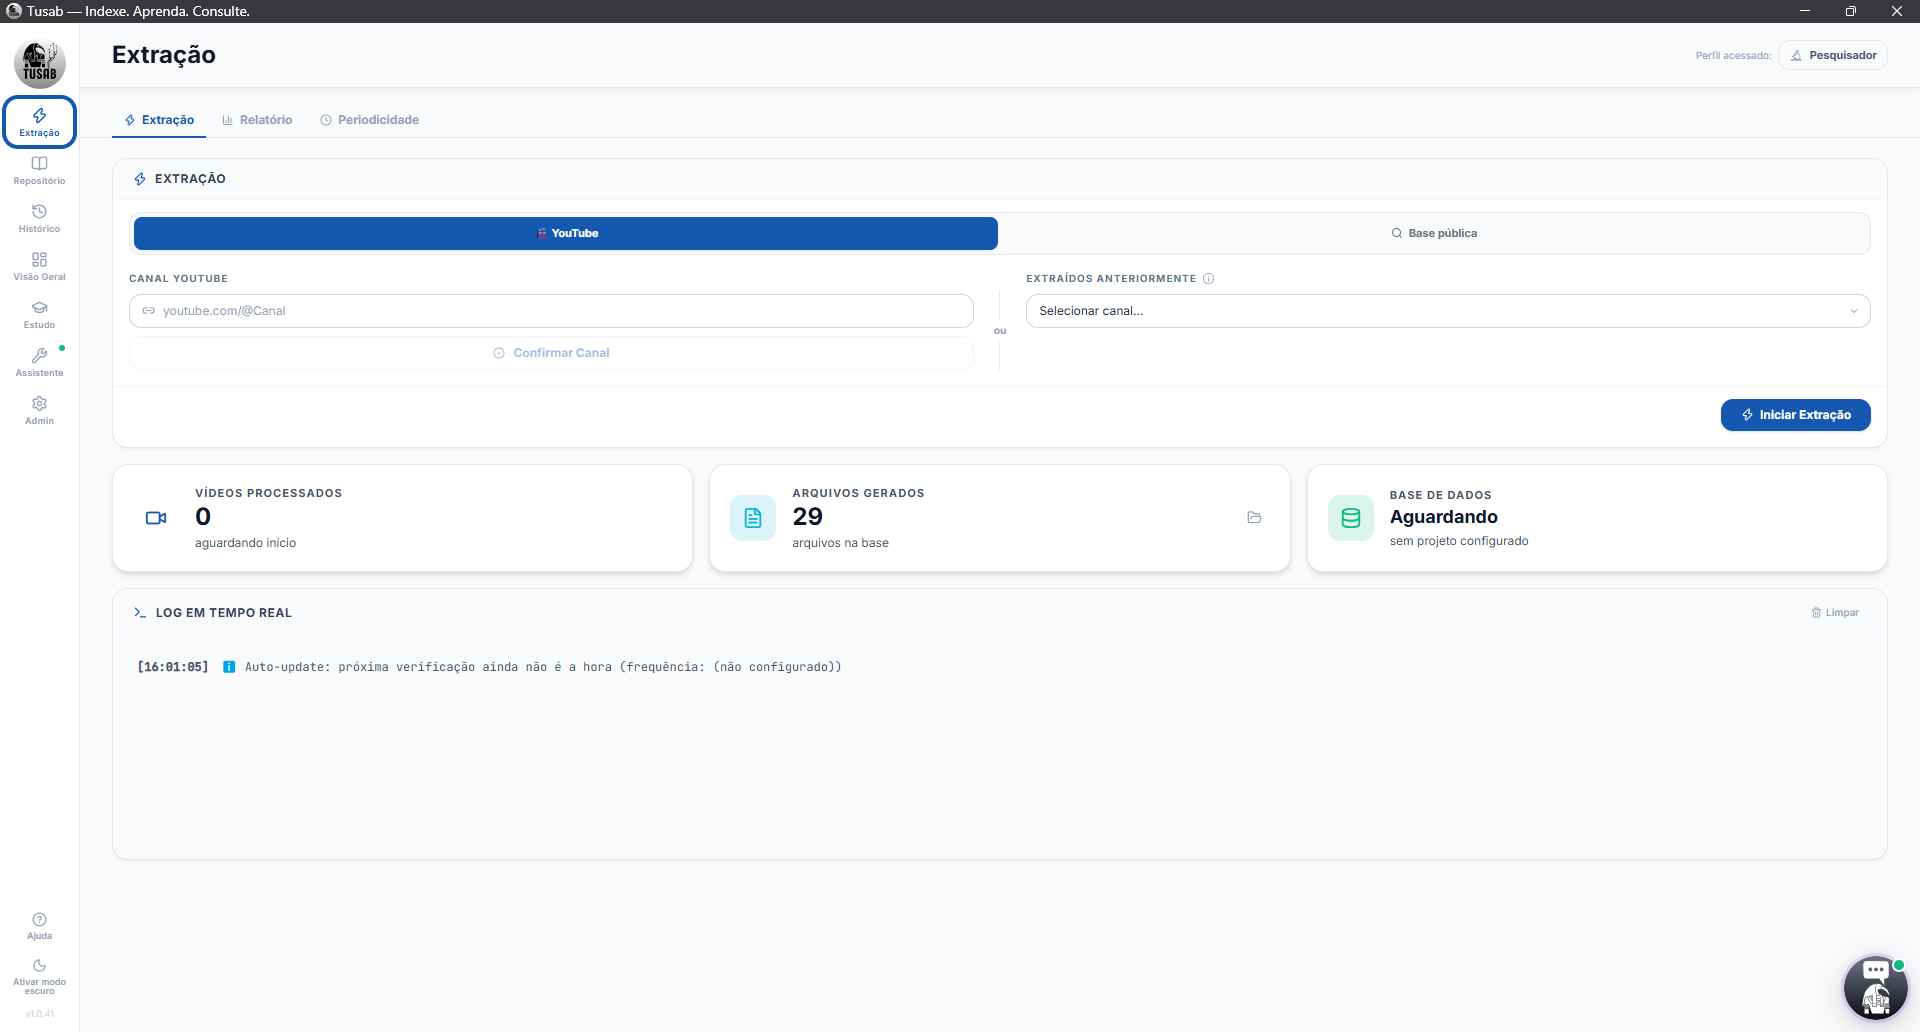
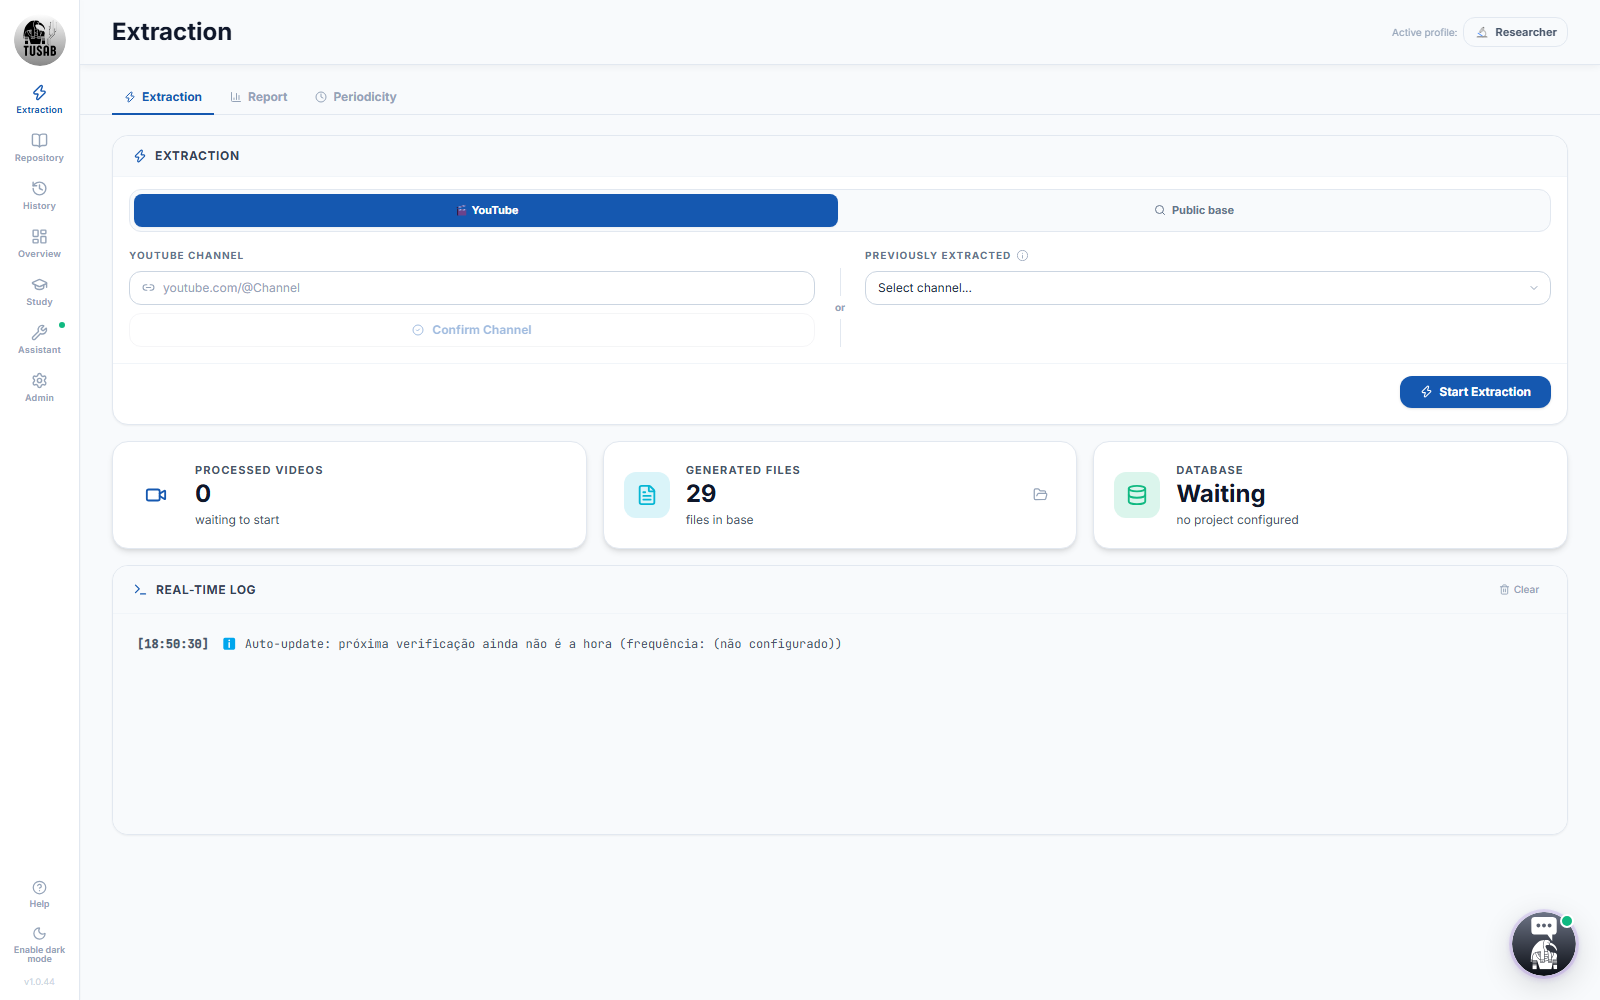
fix(ci): corrige corrida de criação de release + i18n leak na Visão Geral; README com screenshots reais em inglês
release.yml: novo job create-release cria a release da tag sozinho, antes dos
builders — elimina a corrida entre build-windows/build-macos que já gerou
release duplicada 3x (v1.0.42, v1.0.43, v1.0.45) e derrubou o job inteiro 1x
(v1.0.44, 422 already_exists).

VisaoGeralTab.jsx: "em" estava hardcoded em português no JSX mesmo com a UI
em inglês/espanhol — unificado numa chave só com interpolação.

README: seção de Screenshots renovada com capturas reais da interface em
inglês, incluindo uma conversa de chat real com fontes citadas e o aviso de
baixa confiança em ação.

diff --git a/web_interface/src/components/assistente/VisaoGeralTab.jsx b/web_interface/src/components/assistente/VisaoGeralTab.jsx
@@ -223,7 +223,7 @@ export default function VisaoGeralTab({ darkMode, btnFocus }) {
             <span className={lbl}>{t('overview.kpi_chunks')}</span>
           </div>
           <div className={val}>{totalChunks.toLocaleString()}</div>
-          <p className={sub}>em {totalIndexados} {t('overview.kpi_bases_suffix')}</p>
+          <p className={sub}>{t('overview.kpi_bases_count', { count: totalIndexados })}</p>
         </div>
         <div className={card}>
           <div className="flex items-center gap-2 mb-2">

diff --git a/agents/_historia.md b/agents/_historia.md
@@ -709,3 +709,14 @@ Secrets no GitHub (`ahaugusto/tusab`): `CSC_LINK` (`.p12` em base64), `CSC_KEY_P
 **Por que foi adiado, não implementado:** a área hoje é só um **filtro de navegação** até uma base específica — `areaSelecionada` é usada em `ExtractionModal.jsx` pra restringir a lista de fontes mostradas no passo seguinte (`areasFontes[areaSelecionada].fontes`), e a busca real (`buscar_fonte()`/`POST /fonte/buscar`) roda contra **uma única base** escolhida pelo usuário (arXiv, Zenodo, CrossRef etc.), não contra um conjunto de bases. Multi-área só faria sentido se a intenção fosse busca federada (buscar ao mesmo tempo em todas as bases de N áreas, agregando resultados) — isso é uma mudança de escopo bem maior que multiplicar um filtro de UI: precisaria de busca paralela em múltiplas fontes, deduplicação, agregação de resultados e possivelmente rate-limit por fonte.
 
 **Decisão:** não implementar agora. Prioridade é publicar a Fase 8 (macOS). Se a demanda por busca federada entre bases voltar à tona, é feature nova de verdade (não um toggle de multi-select), a ser desenhada com `/backend` (viabilidade de busca paralela) e `/produto` (vale o esforço vs. escolher uma base de cada vez?) antes de qualquer código.
+
+### Corrida de criação de release entre build-windows e build-macos — corrigida na raiz (07/ago/2026)
+
+**Padrão recorrente, não fluke isolado:** os dois builders rodavam em paralelo (`needs: tests` nos dois) e cada um chamava `electron-builder --publish always`, que faz "GET release da tag → se não achar, POST cria". Quando os dois checam "não existe" quase ao mesmo tempo, ambos tentam criar. Aconteceu 3 vezes em 4 releases seguidas, com sintomas diferentes cada vez — o que atrasou o diagnóstico porque parecia bug novo a cada ocorrência:
+- **v1.0.42**: os dois `POST` tiveram sucesso — GitHub aceitou dois objetos de release pra mesma tag, assets espalhados entre eles (Windows num, macOS no outro). `gh release view` resolvia ambiguamente pra um dos dois.
+- **v1.0.43**: mesmo padrão de dois objetos — corrigido baixando os assets do órfão (`gh api .../releases/{id}/assets`, não a URL de download por tag, que resolve pro objeto errado quando há dois) e subindo pro release "principal", depois apagando o órfão.
+- **v1.0.44**: dessa vez o `POST` do build-windows recebeu `422 already_exists` (o macOS já tinha criado primeiro) — e isso **derrubou o job inteiro** em vez de criar um duplicado. O `.exe` já tinha subido antes do erro, mas `latest.yml` e o `.exe.blockmap` ficaram de fora. Corrigido com `gh run rerun --job` só do build-windows (o release já existia, então o rerun só fez upload, sem tentar criar de novo).
+
+**Fix estrutural** (`release.yml`): novo job `create-release` (roda em `ubuntu-latest`, rápido) entre `tests` e os dois builders — gera as notas e cria a release vazia sozinho, sem concorrência. `build-windows` e `build-macos` passam a depender de `[tests, create-release]` em vez de só `tests`. Quando os builders chamam `electron-builder --publish always`, o `GET` sempre acha a release já criada — só fazem upload de asset, nunca tentam `POST` de criação. Elimina a corrida na raiz, não é mais um problema de "quem chega primeiro".
+
+**Como diagnosticar se voltar a acontecer:** `gh api repos/{owner}/{repo}/releases --jq '.[] | select(.tag_name=="vX.Y.Z")'` mostra TODOS os objetos pra uma tag (o `gh release view`/URL de download por tag resolve ambíguo quando há mais de um). Se `gh run view --json jobs` mostrar `conclusion: "failure"` num builder que "pareceu" ter completado (asset principal subiu), procure `422 Unprocessable Entity` + `already_exists` no log do step de publish.

diff --git a/README.md b/README.md
@@ -1,9 +1,12 @@
-```
- _|_|_|_|_|  _|    _|    _|_|_|    _|_|    _|_|_|
-     _|      _|    _|  _|        _|    _|  _|    _|
-     _|      _|    _|    _|_|    _|_|_|_|  _|_|_|
-     _|      _|    _|        _|  _|    _|  _|    _|
-     _|        _|_|    _|_|_|    _|    _|  _|_|_|
+```text
+88888888888 888     888  .d8888b.        d8888 888888b.
+    888     888     888 d88P  Y88b      d88888 888  "88b
+    888     888     888 Y88b.          d88P888 888  .88P
+    888     888     888  "Y888b.      d88P 888 8888888K.
+    888     888     888     "Y88b.   d88P  888 888  "Y88b
+    888     888     888       "888  d88P   888 888    888
+    888     Y88b. .d88P Y88b  d88P d8888888888 888   d88P
+    888      "Y88888P"   "Y8888P" d88P     888 8888888P"
 ```
 
 # Tusab
@@ -73,25 +76,25 @@ excerpt was retrieved from.
 <tr>
 <td width="50%">
 
-**Extraction — YouTube channels or public academic sources**
-<img src="docs/screenshots/extraction.png" alt="Extraction tab" width="100%">
+**Real answer, real sources — with a confidence flag when support is weak**
+<img src="docs/screenshots/chat-conversation.png" alt="Chat conversation with cited sources" width="100%">
 </td>
 <td width="50%">
 
-**Repository — every base you've built, in one place**
-<img src="docs/screenshots/repository.png" alt="Repository tab" width="100%">
+**Extraction — YouTube channels or public academic sources**
+<img src="docs/screenshots/extraction.png" alt="Extraction tab" width="100%">
 </td>
 </tr>
 <tr>
 <td width="50%">
 
-**Overview — coverage and index health at a glance**
-<img src="docs/screenshots/overview.png" alt="Overview dashboard" width="100%">
+**Repository — every base you've built, in one place**
+<img src="docs/screenshots/repository.png" alt="Repository tab" width="100%">
 </td>
 <td width="50%">
 
-**Chat history — every conversation saved, searchable, resumable**
-<img src="docs/screenshots/chat-history.png" alt="Chat history" width="100%">
+**Overview — coverage and index health at a glance**
+<img src="docs/screenshots/overview.png" alt="Overview dashboard" width="100%">
 </td>
 </tr>
 <tr>

diff --git a/CHANGELOG.md b/CHANGELOG.md
@@ -7,6 +7,15 @@ Versionamento via [Semantic Versioning](https://semver.org).
 
 ---
 
+## [1.0.46] — 2026-08-07
+
+### Corrigido
+- **Corrida de criação de release entre build-windows e build-macos** — os dois builders tentavam criar a release da tag ao mesmo tempo; dependendo de quem chegava primeiro, isso gerava dois objetos de release pra mesma tag (v1.0.42, v1.0.43, v1.0.45) ou derrubava o job inteiro com `422 already_exists` (v1.0.44). Novo job `create-release` cria a release vazia, sozinho, antes dos dois builders — eles só sobem asset, nunca disputam a criação.
+- **"em 3 base(s)" aparecia em português na Visão Geral mesmo com a interface em inglês/espanhol** — a palavra "em" estava hardcoded em português direto no JSX (`VisaoGeralTab.jsx`), só o sufixo "base(s)" é que era traduzido. Unificado numa única chave com interpolação.
+
+### Alterado
+- README: seção de Screenshots renovada com capturas reais de tela em inglês (Home com a nova disposição de seções, uma conversa real com fontes citadas e o aviso de baixa confiança em ação, Extração, Repositório, Visão Geral, Modo Estudo com material salvo, Assistente) — as capturas anteriores estavam desatualizadas e não refletiam a interface renomeada.
+
 ## [1.0.45] — 2026-08-07
 
 ### Corrigido
